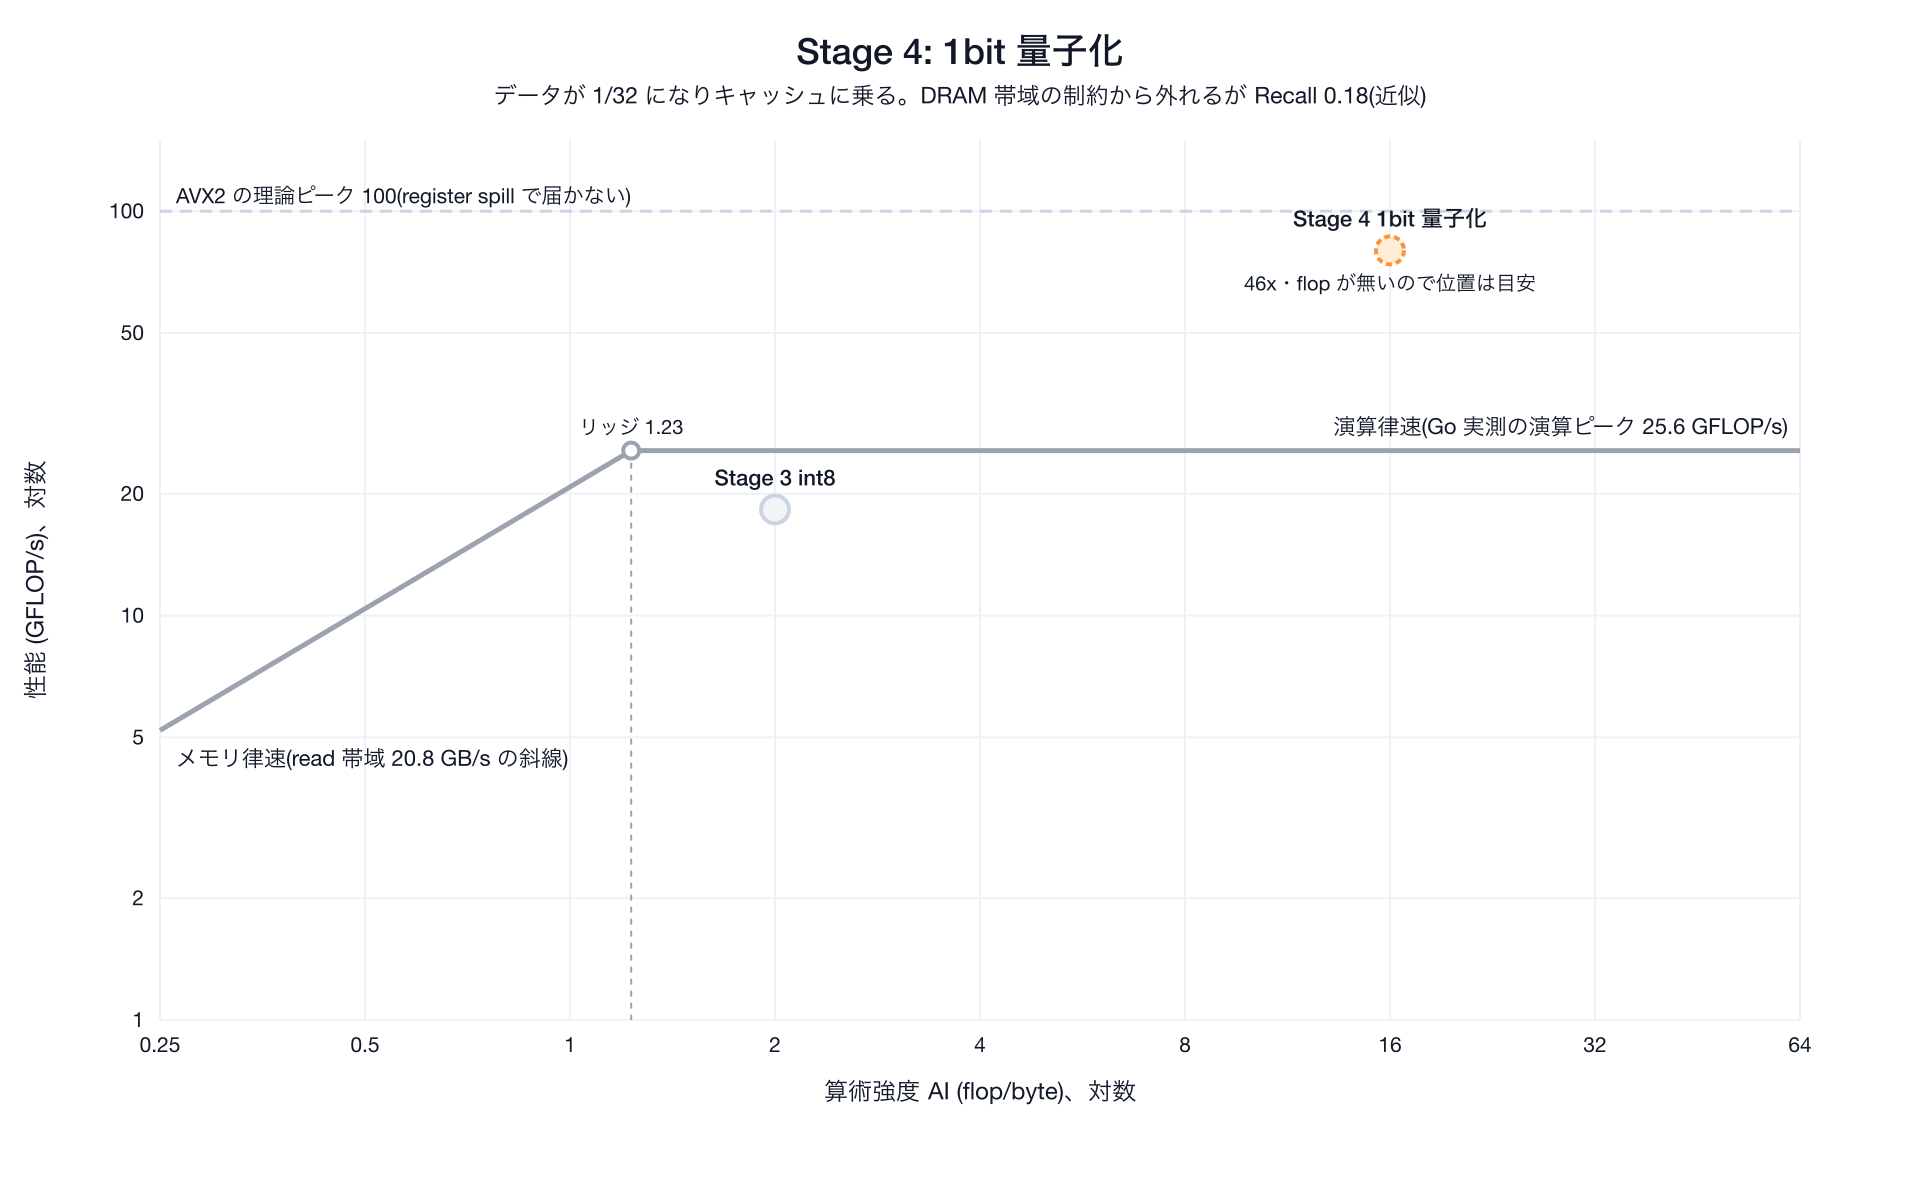
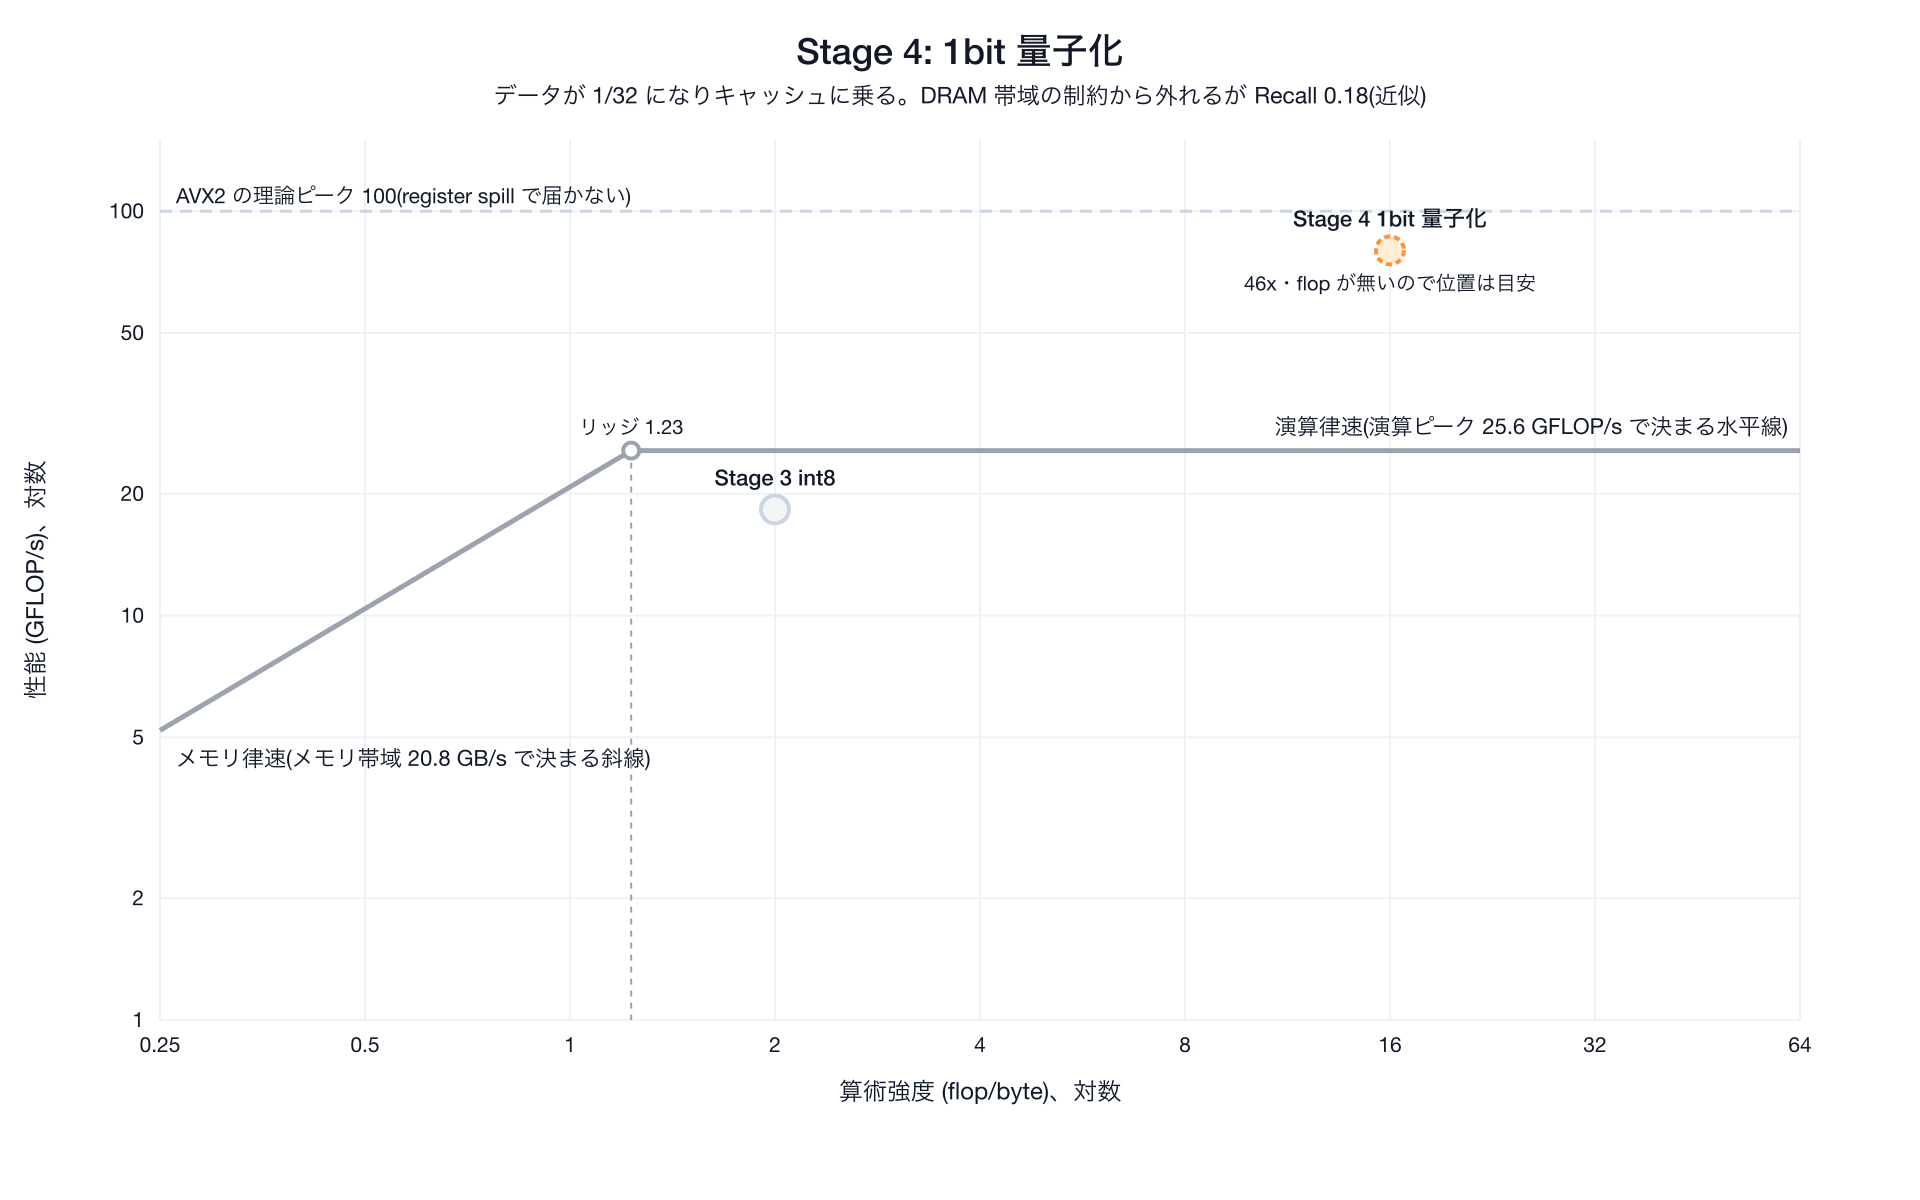
図: 用語を本文と統一(演算ピーク / メモリ帯域 / 算術強度)。対話版ルーフラインのラベルも同じ語に揃え、例のスクリーンショットを Codespaces 再計測の値で更新
Claude-Session: https://claude.ai/code/session_01LaNRf38Fm1x3C6EVVqq373

Changed region(s): [[0.6562, 0.3392, 0.9375, 0.37], [0.1562, 0.6167, 0.3438, 0.6475], [0.4375, 0.8942, 0.5938, 0.925]]

diff --git a/cmd/roofline-figures/main.go b/cmd/roofline-figures/main.go
@@ -76,7 +76,7 @@ func main() {
 func figures(peak, ridge float64) []fig {
 	s0 := pt{name: "Stage 0 スカラ全探索", ai: 0.5, gf: 2.15}
 	s1 := pt{name: "Stage 1 SIMD 全探索", ai: 0.5, gf: 9.7}
-	k1 := pt{name: "カーネル単体(L1 常駐)", ai: 16, gf: 13.9, note: "13.9 GF・AI は目安", vague: true}
+	k1 := pt{name: "カーネル単体(L1 常駐)", ai: 16, gf: 13.9, note: "13.9 GF・算術強度 は目安", vague: true}
 	s2 := pt{name: "Stage 2 SIMD バッチ(B=32)", ai: 16, gf: 13.3}
 	s2s := pt{name: "Stage 2 スカラ バッチ(B=32)", ai: 16, gf: 2.24, side: "below"}
 	s3 := pt{name: "Stage 3 int8", ai: 2, gf: 18.3, note: "18.3 Gop/s・上限の 72%"}
@@ -90,7 +90,7 @@ func figures(peak, ridge float64) []fig {
 			subtitle: "横軸は算術強度 AI(1 バイト運ぶごとに何回計算するか)、縦軸は性能。どのコードもこの線より上には行けない"},
 		{file: "rl-stage0",
 			title:    "Stage 0: スカラ全探索",
-			subtitle: "AI 0.5、2.15 GFLOP/s。メモリ帯域から決まる上限(約 10)にも届いていない",
+			subtitle: "算術強度 0.5、2.15 GFLOP/s。メモリ帯域から決まる上限(約 10)にも届いていない",
 			points:   []pt{s0}},
 		{file: "rl-stage1",
 			title:    "Stage 1: SIMD 化",
@@ -98,11 +98,11 @@ func figures(peak, ridge float64) []fig {
 			points:   []pt{ghost(s0), s1, k1}},
 		{file: "rl-stage2",
 			title:    "Stage 2: クエリのバッチ化(B=32)",
-			subtitle: "AI が 0.5 から 16 に動き、リッジを越えて演算律速側へ。exact のまま SIMD がスカラより 5.9x 速い",
+			subtitle: "算術強度 が 0.5 から 16 に動き、リッジを越えて演算律速側へ。exact のまま SIMD がスカラより 5.9x 速い",
 			points:   []pt{ghost(s1), s2, s2s}},
 		{file: "rl-stage3",
 			title:    "Stage 3: int8 量子化",
-			subtitle: "AI が 0.5 から 2 に動きリッジを越える。ただし演算の上限の下(カーネル律速)。Recall 0.948",
+			subtitle: "算術強度 が 0.5 から 2 に動きリッジを越える。ただし演算ピークの下(カーネル律速)。Recall 0.948",
 			points:   []pt{ghost(s1), s3}},
 		{file: "rl-stage4",
 			title:    "Stage 4: 1bit 量子化",
@@ -114,11 +114,11 @@ func figures(peak, ridge float64) []fig {
 			points:   []pt{s5}},
 		{file: "roofline-plot",
 			title:    "実測ルーフライン全体像(Codespaces / AMD EPYC 7763)",
-			subtitle: "演算ピーク " + ftoa(peak) + " GFLOP/s、read 帯域 20.8 GB/s、リッジ " + strconv.FormatFloat(ridge, 'f', 2, 64) + " flop/byte",
-			points:   []pt{s0, s1, {name: "カーネル単体(L1)", ai: 32, gf: 13.9, note: "AI は目安", vague: true, side: "below"}, s2, s3, s4},
+			subtitle: "演算ピーク " + ftoa(peak) + " GFLOP/s、メモリ帯域 20.8 GB/s、リッジ " + strconv.FormatFloat(ridge, 'f', 2, 64) + " flop/byte",
+			points:   []pt{s0, s1, {name: "カーネル単体(L1)", ai: 32, gf: 13.9, note: "算術強度 は目安", vague: true, side: "below"}, s2, s3, s4},
 			notes: []string{
-				"Stage 0 から 1: 縦に上がりメモリ帯域の上限で止まる(AI 0.5 はリッジの左)",
-				"Stage 1 から 2 / 3: AI を右に動かすとリッジを越え、SIMD が効く側に入る",
+				"Stage 0 から 1: 縦に上がりメモリ帯域の上限で止まる(算術強度 0.5 はリッジの左)",
+				"Stage 1 から 2 / 3: 算術強度 を右に動かすとリッジを越え、SIMD が効く側に入る",
 				"Stage 4: データを 1/32 にしてキャッシュに乗せる。flop が無いので点の位置は目安",
 			}},
 	}
@@ -171,9 +171,9 @@ func render(f fig, peak, bw, tpeak float64) string {
 			p("<text x=\"%.1f\" y=\"%.1f\" font-size=\"10.5\" fill=\"#6b7280\" text-anchor=\"end\">%g</text>\n", x0-8, y+3.5, t)
 		}
 	}
-	xlab, ylab := "算術強度 AI (flop/byte)、対数", "性能 (GFLOP/s)、対数"
+	xlab, ylab := "算術強度 (flop/byte)、対数", "性能 (GFLOP/s)、対数"
 	if f.concept {
-		xlab, ylab = "算術強度 AI (flop/byte)。右ほど 1 バイトあたりの計算が多い", "性能 (GFLOP/s)。上ほど速い"
+		xlab, ylab = "算術強度 (flop/byte)。右ほど 1 バイトあたりの計算が多い", "性能 (GFLOP/s)。上ほど速い"
 	}
 	p("<text x=\"%.1f\" y=\"%.1f\" font-size=\"12\" fill=\"#374151\" text-anchor=\"middle\">%s</text>\n", x0+plotW/2, y0+plotH+40, xlab)
 	p("<text transform=\"translate(22,%.1f) rotate(-90)\" font-size=\"12\" fill=\"#374151\" text-anchor=\"middle\">%s</text>\n", y0+plotH/2, ylab)
@@ -182,17 +182,17 @@ func render(f fig, peak, bw, tpeak float64) string {
 	p("<polyline fill=\"none\" stroke=\"%s\" stroke-width=\"2.5\" points=\"%.1f,%.1f %.1f,%.1f %.1f,%.1f\"/>\n",
 		roofColor, px(aiLo), py(roof(aiLo)), px(ridge), py(peak), px(aiHi), py(peak))
 	if f.concept {
-		p("<text x=\"%.1f\" y=\"%.1f\" font-size=\"12\" font-weight=\"600\" fill=\"%s\" text-anchor=\"start\">メモリ帯域で決まる斜線(メモリ律速の上限)</text>\n", px(aiLo)+8, py(roof(aiLo))+20, memStroke)
-		p("<text x=\"%.1f\" y=\"%.1f\" font-size=\"12\" font-weight=\"600\" fill=\"%s\" text-anchor=\"end\">演算ピークで決まる水平線(演算律速の上限)</text>\n", px(aiHi)-6, py(peak)-10, cStroke)
+		p("<text x=\"%.1f\" y=\"%.1f\" font-size=\"12\" font-weight=\"600\" fill=\"%s\" text-anchor=\"start\">メモリ帯域で決まる斜線</text>\n", px(aiLo)+8, py(roof(aiLo))+20, memStroke)
+		p("<text x=\"%.1f\" y=\"%.1f\" font-size=\"12\" font-weight=\"600\" fill=\"%s\" text-anchor=\"end\">演算ピークで決まる水平線</text>\n", px(aiHi)-6, py(peak)-10, cStroke)
 		p("<text x=\"%.1f\" y=\"%.1f\" font-size=\"14\" font-weight=\"600\" fill=\"%s\" text-anchor=\"middle\">メモリ律速</text>\n", px(0.6), py(2.6), "#1d4ed8")
 		p("<text x=\"%.1f\" y=\"%.1f\" font-size=\"11.5\" fill=\"%s\" text-anchor=\"middle\">データを運ぶのが間に合わない</text>\n", px(0.6), py(2.6)+18, "#1d4ed8")
-		p("<text x=\"%.1f\" y=\"%.1f\" font-size=\"11.5\" fill=\"%s\" text-anchor=\"middle\">点がここなら AI を上げる(データ表現を変える)</text>\n", px(0.6), py(2.6)+36, "#1d4ed8")
+		p("<text x=\"%.1f\" y=\"%.1f\" font-size=\"11.5\" fill=\"%s\" text-anchor=\"middle\">点がここなら 算術強度 を上げる(データ表現を変える)</text>\n", px(0.6), py(2.6)+36, "#1d4ed8")
 		p("<text x=\"%.1f\" y=\"%.1f\" font-size=\"14\" font-weight=\"600\" fill=\"%s\" text-anchor=\"middle\">演算律速</text>\n", px(12), py(4), "#c2410c")
 		p("<text x=\"%.1f\" y=\"%.1f\" font-size=\"11.5\" fill=\"%s\" text-anchor=\"middle\">計算が間に合わない</text>\n", px(12), py(4)+18, "#c2410c")
 		p("<text x=\"%.1f\" y=\"%.1f\" font-size=\"11.5\" fill=\"%s\" text-anchor=\"middle\">点がここなら実装効率を上げる(SIMD など)</text>\n", px(12), py(4)+36, "#c2410c")
 	} else {
-		p("<text x=\"%.1f\" y=\"%.1f\" font-size=\"11\" fill=\"%s\" text-anchor=\"start\">メモリ律速(read 帯域 %.1f GB/s の斜線)</text>\n", px(aiLo)+8, py(roof(aiLo))+18, memStroke, bw)
-		p("<text x=\"%.1f\" y=\"%.1f\" font-size=\"11\" fill=\"%s\" text-anchor=\"end\">演算律速(Go 実測の演算ピーク %.1f GFLOP/s)</text>\n", px(aiHi)-6, py(peak)-8, cStroke, peak)
+		p("<text x=\"%.1f\" y=\"%.1f\" font-size=\"11\" fill=\"%s\" text-anchor=\"start\">メモリ律速(メモリ帯域 %.1f GB/s で決まる斜線)</text>\n", px(aiLo)+8, py(roof(aiLo))+18, memStroke, bw)
+		p("<text x=\"%.1f\" y=\"%.1f\" font-size=\"11\" fill=\"%s\" text-anchor=\"end\">演算律速(演算ピーク %.1f GFLOP/s で決まる水平線)</text>\n", px(aiHi)-6, py(peak)-8, cStroke, peak)
 	}
 	// ridge
 	p("<line x1=\"%.1f\" y1=\"%.1f\" x2=\"%.1f\" y2=\"%.1f\" stroke=\"%s\" stroke-dasharray=\"3 3\"/>\n", px(ridge), py(peak), px(ridge), y0+plotH, roofColor)

diff --git a/cmd/roofline-plot/main.go b/cmd/roofline-plot/main.go
@@ -136,8 +136,8 @@ func main() {
 	p("<div class=\"wrap\">\n")
 	p("<svg id=\"rl\" xmlns=\"http://www.w3.org/2000/svg\" viewBox=\"0 0 %d %d\" width=\"100%%\">\n", W, H)
 	p("<rect width=\"%d\" height=\"%d\" fill=\"#ffffff\"/>\n", W, H)
-	p("<text x=\"%d\" y=\"32\" font-size=\"18\" font-weight=\"600\" text-anchor=\"middle\">実測ルーフライン — 測った点が天井に当たる</text>\n", W/2)
-	p("<text x=\"%d\" y=\"52\" font-size=\"11.5\" fill=\"#6b7280\" text-anchor=\"middle\">演算ピーク %.1f GFLOP/s ・ read 帯域 %.1f GB/s ・ リッジ %.2f flop/byte(make roofline-ceiling 実測)。点にカーソルを当てると詳細。</text>\n", W/2, *peak, *bw, ridge)
+	p("<text x=\"%d\" y=\"32\" font-size=\"18\" font-weight=\"600\" text-anchor=\"middle\">実測ルーフライン: 測った点が上限に近づく</text>\n", W/2)
+	p("<text x=\"%d\" y=\"52\" font-size=\"11.5\" fill=\"#6b7280\" text-anchor=\"middle\">演算ピーク %.1f GFLOP/s、メモリ帯域 %.1f GB/s、リッジ %.2f flop/byte(make roofline-ceiling の実測)。点にカーソルを当てると詳細が出ます。</text>\n", W/2, *peak, *bw, ridge)
 
 	// --- grid + ticks
 	for _, t := range []float64{0.25, 0.5, 1, 2, 4, 8, 16, 32, 64} {
@@ -158,16 +158,16 @@ func main() {
 		p("<text x=\"%.1f\" y=\"%.1f\" font-size=\"10.5\" fill=\"#6b7280\" text-anchor=\"end\">%g</text>\n", x0-8, y+3.5, t)
 	}
 	// axis titles
-	p("<text x=\"%.1f\" y=\"%.1f\" font-size=\"12\" fill=\"#374151\" text-anchor=\"middle\">算術強度 AI (flop/byte) — log</text>\n", x0+plotW/2, y0+plotH+40)
-	p("<text transform=\"translate(22,%.1f) rotate(-90)\" font-size=\"12\" fill=\"#374151\" text-anchor=\"middle\">性能 (GFLOP/s) — log</text>\n", y0+plotH/2)
+	p("<text x=\"%.1f\" y=\"%.1f\" font-size=\"12\" fill=\"#374151\" text-anchor=\"middle\">算術強度 (flop/byte)、対数</text>\n", x0+plotW/2, y0+plotH+40)
+	p("<text transform=\"translate(22,%.1f) rotate(-90)\" font-size=\"12\" fill=\"#374151\" text-anchor=\"middle\">性能 (GFLOP/s)、対数</text>\n", y0+plotH/2)
 
 	// --- roofline: memory diagonal up to the ridge, then compute horizontal.
 	rx := math.Max(aiLo, math.Min(ridge, aiHi))
 	p("<polyline fill=\"none\" stroke=\"#9ca3af\" stroke-width=\"2.5\" points=\"%.1f,%.1f %.1f,%.1f %.1f,%.1f\"/>\n",
 		px(aiLo), py(roof(aiLo)), px(rx), py(*peak), px(aiHi), py(*peak))
 	// region tints (memory-bound left of ridge, compute-bound right)
-	p("<text x=\"%.1f\" y=\"%.1f\" font-size=\"11\" fill=\"%s\" text-anchor=\"start\">メモリ律速 ↙(帯域 %.1f GB/s の斜線)</text>\n", px(aiLo)+6, py(roof(aiLo))-8, memStroke, *bw)
-	p("<text x=\"%.1f\" y=\"%.1f\" font-size=\"11\" fill=\"%s\" text-anchor=\"end\">演算律速 ↗(演算ピーク %.1f GFLOP/s)</text>\n", px(aiHi)-6, py(*peak)-8, cStroke, *peak)
+	p("<text x=\"%.1f\" y=\"%.1f\" font-size=\"11\" fill=\"%s\" text-anchor=\"start\">メモリ律速(メモリ帯域 %.1f GB/s で決まる斜線)</text>\n", px(aiLo)+6, py(roof(aiLo))-8, memStroke, *bw)
+	p("<text x=\"%.1f\" y=\"%.1f\" font-size=\"11\" fill=\"%s\" text-anchor=\"end\">演算律速(演算ピーク %.1f GFLOP/s で決まる水平線)</text>\n", px(aiHi)-6, py(*peak)-8, cStroke, *peak)
 	// ridge marker
 	p("<line x1=\"%.1f\" y1=\"%.1f\" x2=\"%.1f\" y2=\"%.1f\" stroke=\"#9ca3af\" stroke-dasharray=\"3 3\"/>\n", px(ridge), py(*peak), px(ridge), y0+plotH)
 	p("<text x=\"%.1f\" y=\"%.1f\" font-size=\"10\" fill=\"#6b7280\" text-anchor=\"middle\">リッジ %.2f</text>\n", px(ridge), py(*peak)-4, ridge)
@@ -176,7 +176,7 @@ func main() {
 	if *tpeak > 0 {
 		y := py(*tpeak)
 		p("<line x1=\"%.1f\" y1=\"%.1f\" x2=\"%.1f\" y2=\"%.1f\" stroke=\"#cbd5e1\" stroke-width=\"1.5\" stroke-dasharray=\"6 4\"/>\n", x0, y, x0+plotW, y)
-		p("<text x=\"%.1f\" y=\"%.1f\" font-size=\"10.5\" fill=\"#94a3b8\" text-anchor=\"end\">理論ピーク %.0f(到達できないのは register spill)</text>\n", x0+plotW, y-4, *tpeak)
+		p("<text x=\"%.1f\" y=\"%.1f\" font-size=\"10.5\" fill=\"#94a3b8\" text-anchor=\"end\">AVX2 の理論ピーク %.0f(register spill で届かない)</text>\n", x0+plotW, y-4, *tpeak)
 	}
 
 	// --- points: a dropline to the roof shows how close to the ceiling it is.
@@ -194,7 +194,7 @@ func main() {
 			"data-name=\"%s\" data-ai=\"%g\" data-gf=\"%.2f\" data-roof=\"%.2f\" data-frac=\"%.0f\"/>\n",
 			x, yPt, fill, stroke, pt.name, pt.ai, pt.gf, r, frac)
 		p("<text x=\"%.1f\" y=\"%.1f\" font-size=\"11\" font-weight=\"600\" fill=\"#111827\" text-anchor=\"middle\">%s</text>\n", x, yPt-12, pt.name)
-		p("<text x=\"%.1f\" y=\"%.1f\" font-size=\"10\" fill=\"#6b7280\" text-anchor=\"middle\">%.1f GF・天井の %.0f%%</text>\n", x, yPt+20, pt.gf, frac)
+		p("<text x=\"%.1f\" y=\"%.1f\" font-size=\"10\" fill=\"#6b7280\" text-anchor=\"middle\">%.1f GF・上限の %.0f%%</text>\n", x, yPt+20, pt.gf, frac)
 	}
 
 	p("</svg>\n")
@@ -205,7 +205,7 @@ func main() {
 	p("document.querySelectorAll('circle.pt').forEach(function(c){\n")
 	p("  c.addEventListener('mousemove',function(e){\n")
 	p("    var d=c.dataset;\n")
-	p("    tip.innerHTML=d.name+'<br>AI='+d.ai+' flop/byte<br>'+d.gf+' GFLOP/s<br>天井 '+d.roof+' GF の '+d.frac+'%%';\n")
+	p("    tip.innerHTML=d.name+'<br>算術強度 '+d.ai+' flop/byte<br>'+d.gf+' GFLOP/s<br>上限 '+d.roof+' GF の '+d.frac+'%%';\n")
 	p("    tip.style.left=(e.clientX+14)+'px';tip.style.top=(e.clientY+14)+'px';tip.style.opacity=1;\n")
 	p("  });\n")
 	p("  c.addEventListener('mouseleave',function(){tip.style.opacity=0;});\n")

diff --git a/cmd/roofline-decompose/main.go b/cmd/roofline-decompose/main.go
@@ -40,8 +40,8 @@ func main() {
 	flag.Parse()
 
 	stages := []stage{
-		{"全探索 (B=1)", "AI=0.5", bytePerElem, 130},      // no reuse
-		{"バッチ (B=32)", "AI=16", bytePerElem / 32, 280}, // d loaded once for 32 queries
+		{"全探索 (B=1)", "算術強度=0.5", bytePerElem, 130},      // no reuse
+		{"バッチ (B=32)", "算術強度=16", bytePerElem / 32, 280}, // d loaded once for 32 queries
 	}
 
 	tc := flopPerElem / *peak // compute time per element (same for every stage)
